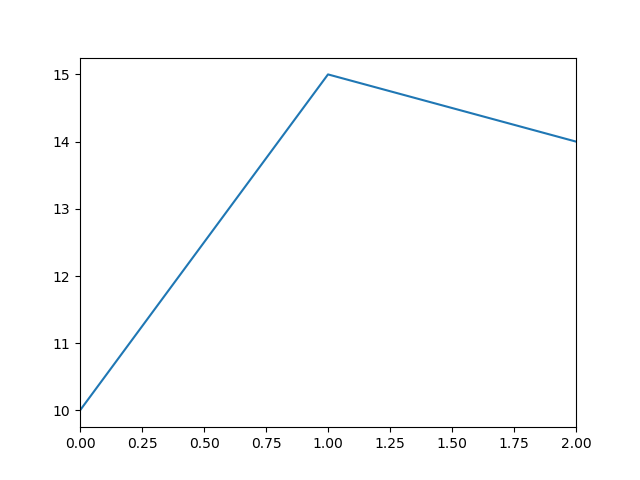
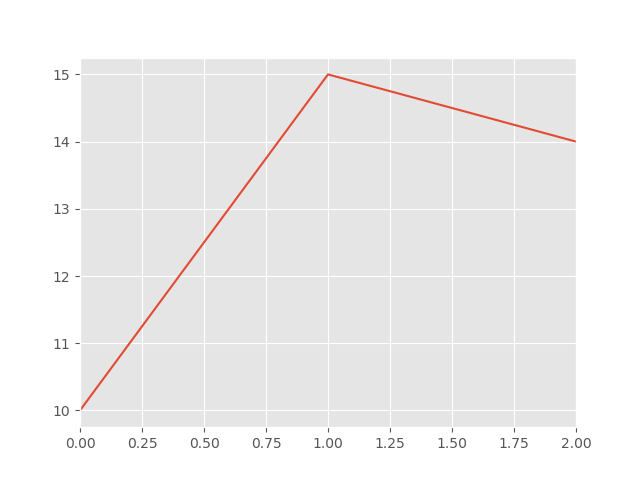
Code review fixes

diff --git a/src/lesson05/test_dataframe_selection_exercise.py b/src/lesson05/test_dataframe_selection_exercise.py
@@ -10,13 +10,11 @@ class TestPandasDataFrameSelectionExercise(unittest.TestCase):
 
     CURRENT_FOLDER = os.path.dirname(os.path.abspath(__file__))
 
-
     def test_select_by_column_names(self):
         data = pd.read_csv('{}\\fixtures\customers.csv'.format(self.CURRENT_FOLDER))
         # data.loc[:, ['CustomerName', 'City']].to_csv('{}\\fixtures\select_by_column_name.csv'.format(self.CURRENT_FOLDER), index=False)
         result = pd.read_csv('{}\\fixtures\select_by_column_name.csv'.format(self.CURRENT_FOLDER))
         pd.testing.assert_frame_equal(data.loc[:, ['CustomerName', 'City']], result)
-
 
     def test_select_by_column_number(self):
         data = pd.read_csv('{}\\fixtures\customers.csv'.format(self.CURRENT_FOLDER))
@@ -24,20 +22,18 @@ class TestPandasDataFrameSelectionExercise(unittest.TestCase):
         result = pd.read_csv('{}\\fixtures\select_column_number.csv'.format(self.CURRENT_FOLDER))
         pd.testing.assert_frame_equal(data.iloc[:, [0, 1]], result)
 
-    # TODO: assert dataframe from fixtures
     def test_select_records_by_row_name(self):
         data = pd.read_csv('{}\\fixtures\customers.csv'.format(self.CURRENT_FOLDER))
-        data.loc[10:15, ['CustomerName', 'City']].to_csv('{}\\fixtures\select_records_by_row_name.csv'.format(self.CURRENT_FOLDER), index=False)
+        # data.loc[10:15, ['CustomerName', 'City']].to_csv('{}\\fixtures\select_records_by_row_name.csv'.format(self.CURRENT_FOLDER), index=False)
         result = pd.read_csv('{}\\fixtures\select_records_by_row_name.csv'.format(self.CURRENT_FOLDER))
-        pd.testing.assert_frame_equal(data.loc[10:15, ['CustomerName', 'City']], result)
+        pd.testing.assert_frame_equal(data.loc[10:15, ['CustomerName', 'City']].reset_index(drop=True), result)
         self.assertEqual(len(result), 6)
 
     # TODO: assert something
     def test_select_first_last(self):
         data = pd.read_csv('{}\\fixtures\customers.csv'.format(self.CURRENT_FOLDER))
-        data.loc[[0, (len(data)-1)], 'CustomerName'].to_csv('{}\\fixtures\select_first_last.csv'.format(self.CURRENT_FOLDER))  # data.loc[[0, data.tail(1).index.tolist()[0]], 'CustomerName']
-        result = pd.read_csv('{}\\fixtures\select_first_last.csv'.format(self.CURRENT_FOLDER)))
-        pd.testing.assert_frame_equal(data.loc[[0, (len(data)-1)], 'CustomerName'], result)
+        pd.testing.assert_series_equal(data.loc[[0, (len(data)-1)], 'CustomerName'].reset_index(drop=True),
+                                       pd.Series(['Alfreds Futterkiste', 'Wolski'], name='CustomerName'))
 
 
 if __name__ == '__main__':

diff --git a/src/lesson05/test_select_by_condition.py b/src/lesson05/test_select_by_condition.py
@@ -11,10 +11,18 @@ class TestPandasSelectByCondition(unittest.TestCase):
     CURRENT_FOLDER = os.path.dirname(os.path.abspath(__file__))
 
     # TODO: Split to multiple tests and compare dataframes with loaded from fixtures
-    def test_select_by_condition(self):
+    def test_select_by_id_from_20(self):
         data = pd.read_csv('{}\\fixtures\customers.csv'.format(self.CURRENT_FOLDER))
-        data.loc[data.CustomerID > 20].to_csv('{}\out\select_customer_id_from_20.csv'.format(self.CURRENT_FOLDER))
+        data.loc[data.CustomerID > 20].to_csv('{}\\fixtures\select_customer_id_from_20.csv'.format(self.CURRENT_FOLDER), index=False)
+        result = pd.read_csv('{}\\fixtures\select_customer_id_from_20.csv'.format(self.CURRENT_FOLDER))
+        pd.testing.assert_frame_equal(data.loc[data.CustomerID > 20], result)
+
+    def test_select_by_germany(self):
+        data = pd.read_csv('{}\\fixtures\customers.csv'.format(self.CURRENT_FOLDER))
         data.loc[data.Country == 'Germany'].to_csv('{}\\out\select_germany.csv'.format(self.CURRENT_FOLDER))
+
+    def test_select_by_germany_mexico(self):
+        data = pd.read_csv('{}\\fixtures\customers.csv'.format(self.CURRENT_FOLDER))
         data.loc[data.Country.isin(['Germany', 'Mexico'])].to_csv('{}\out\select_germany_mexico.csv'.format(self.CURRENT_FOLDER))
 
 

diff --git a/src/lesson04/test_series_operations.py b/src/lesson04/test_series_operations.py
@@ -19,12 +19,9 @@ class TestPandasSeriesOperations(unittest.TestCase):
         self.assertListEqual(srs[[3, 0, 4]].index.tolist(), [3, 0, 4])
         self.assertEqual(srs[[3, 0, 4]].size, 3)
 
-    # TODO: Fix me!
     def test_series_operations(self):
-        arr = np.random.randn(5)
-        srs = pd.Series(arr)
-        result = srs ** 2
-        self.assertEqual(result.size, srs.size)
+        srs = pd.Series([1, 2, 3])
+        pd.testing.assert_series_equal(srs ** 2, pd.Series([1, 4, 9]))
 
 
 if __name__ == '__main__':

diff --git a/src/lesson07/test_matplotlib.py b/src/lesson07/test_matplotlib.py
@@ -1,6 +1,6 @@
 #!/usr/bin/python
 # -*- coding: utf-8 -*-
-
+import matplotlib.pyplot as plt
 import pandas as pd
 import unittest
 import os
@@ -9,6 +9,9 @@ import os
 class TestPlot(unittest.TestCase):
 
     CURRENT_FOLDER = os.path.dirname(os.path.abspath(__file__))
+
+    def setUp(self):
+        plt.style.use('ggplot')
 
     def test_plot(self):
         data = [['tom', 10], ['nick', 15], ['juli', 14]]
